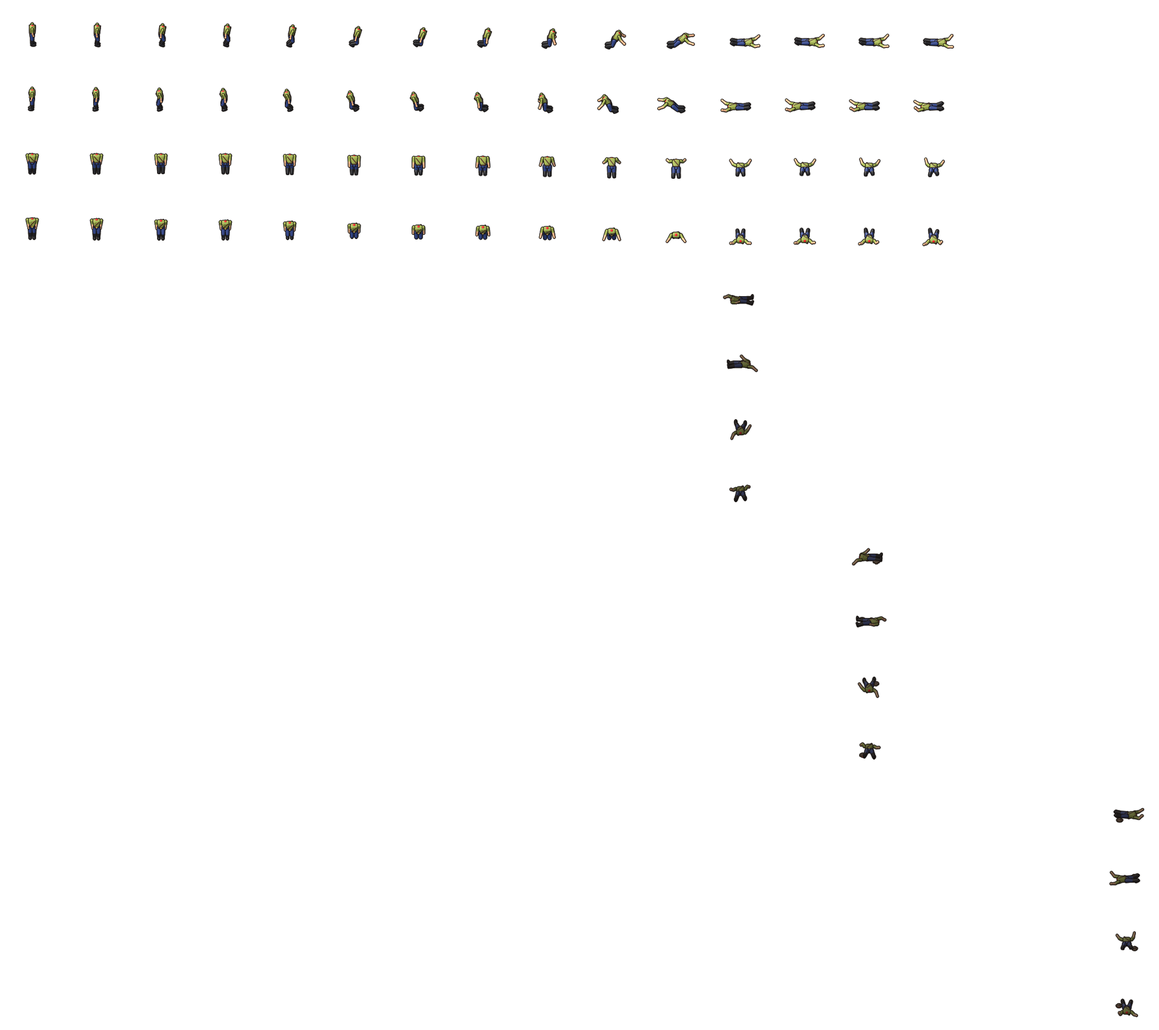
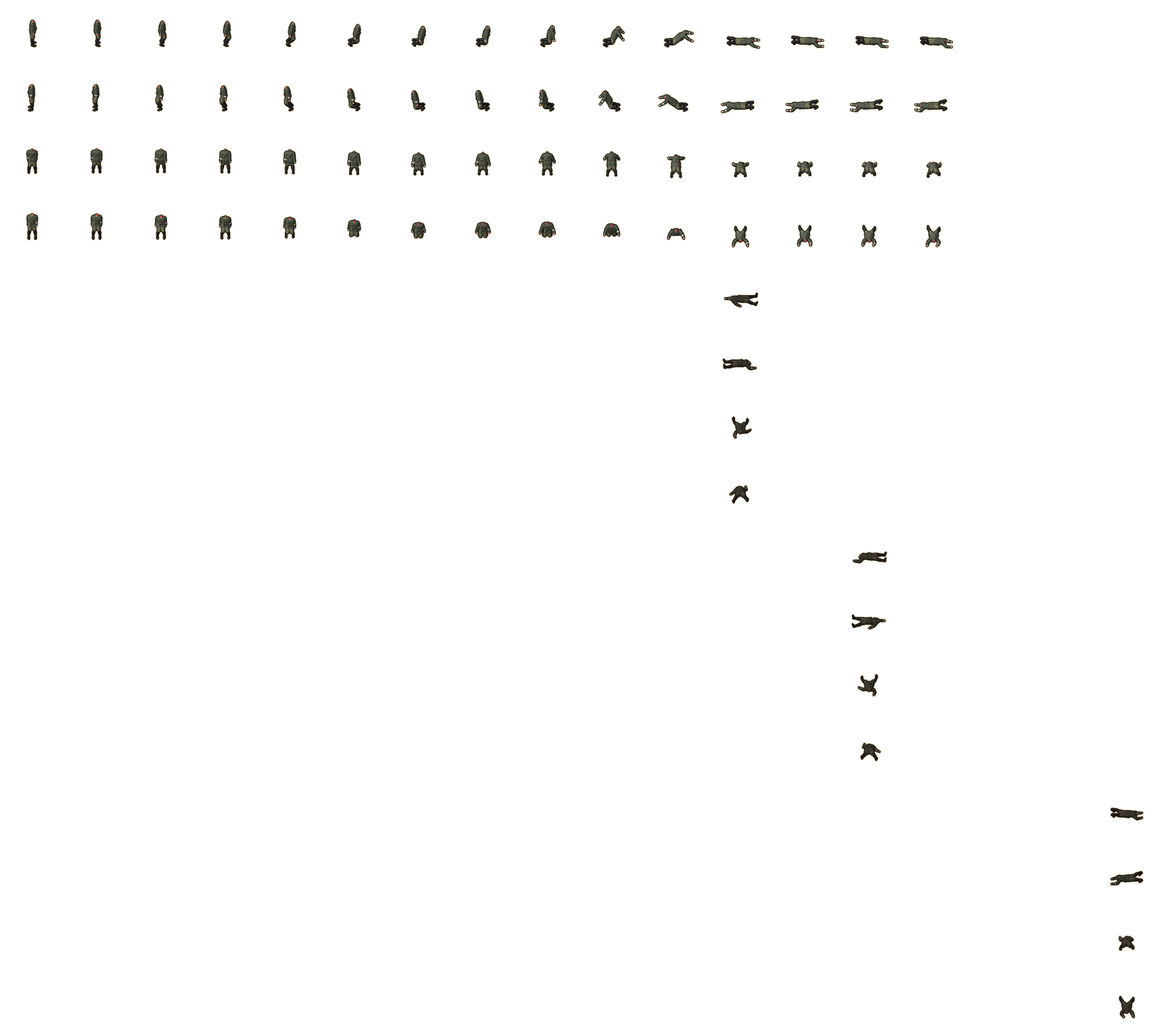
Версия 0.5.0: герои — реалистичные люди, новые кости, цветная бомба на панели
- Герои — человек MakeHuman, снятый в Blender, бег по записи движения CMU: Иван в ватнике и ушанке,
  Игорь в комбинезоне танкиста; ремни, подсумки, бинты, грязь; светлая обводка для заметности на полу.
  Все листы пересобраны (бег, четыре гибели, безголовые), heroMeta.js — mockups/realhero/build_real.py.
- Кости после змеи — без сапог, по размеру лежащего героя (bonesView.js).
- Бомба на счётчике панели — цветная, как у героя в игре.
- README: раздел «Авторы и лицензии» (одежда героев под CC BY 4.0, MakeHuman, CMU).
- Автотесты: 53.

diff --git a/frontend/js/bonesView.js b/frontend/js/bonesView.js
@@ -1,5 +1,6 @@
-// Что остаётся от героя, которого обглодала змея: скелет в сапогах или кучка костей с черепом.
-// Какое из двух — выбирает сервер. Шапки и прочего при костях нет: змея съедает всё.
+// Что остаётся от героя, которого обглодала змея: скелет или кучка костей с черепом — одни кости, без одежды и обуви.
+// Какое из двух — выбирает сервер. Размер — как у лежащего героя: скелет длиной с тело (около 60 точек).
+// Картинки героя сняты сверху наискосок, и лежащий вдоль экрана вверх-вниз выглядит короче — скелет тоже.
 // Нарисовано на холсте при запуске (createBonesTextures), готовых картинок нет.
 
 import { canvasTexture } from './canvasTexture.js';
@@ -7,13 +8,15 @@ import { canvasTexture } from './canvasTexture.js';
 const INK = '#120d0a';
 const BONE = ['#f6f1df', '#b4ab93'];
 const SIZE = 72;                      // сторона картинки: лежащий скелет длиннее клетки
-// Скелет лежит головой туда же, куда упал герой.
-const ANGLE = { right: 0, left: Math.PI, up: -Math.PI / 2, down: Math.PI / 2 };
+const SQUASH = 0.58;                  // во сколько раз короче то, что лежит вдоль экрана вверх-вниз
+const SQUASH_ACROSS = 0.8;            // так же для ширины тела: у героя её добавляет толщина тела
+// Куда головой лежит скелет — туда же, куда упал герой.
+const HEAD_TO = { right: [1, 0], left: [-1, 0], up: [0, -1], down: [0, 1] };
 
 // ------------------------------------------------------------ кисти
 
 // Заливает текущий контур переходом от светлого к тёмному и обводит.
-function ink(g, [light, dark], width = 1.1) {
+function ink(g, [light, dark], width = 0.8) {
   const paint = g.createLinearGradient(-6, -8, 6, 8);
   paint.addColorStop(0, light);
   paint.addColorStop(1, dark);
@@ -53,56 +56,40 @@ const fill = (g, color) => {
 };
 
 // Кость: палочка с утолщениями на концах.
-function bone(g, x0, y0, x1, y1, w = 2.2) {
-  for (const [width, color] of [[w + 2, INK], [w, BONE[0]]]) {
+function bone(g, x0, y0, x1, y1, w = 1.4) {
+  for (const [width, color] of [[w + 1.4, INK], [w, BONE[0]]]) {
     line(g, x0, y0, x1, y1, width, color);
     for (const [x, y] of [[x0, y0], [x1, y1]]) {
-      oval(g, x, y, (width + 1.1) / 2);
+      oval(g, x, y, (width + 0.7) / 2);
       fill(g, color);
     }
   }
 }
 
-// Череп сверху: макушка в сторону +x, лицом вверх.
-function skullTop(g, x) {
-  g.save();
-  g.translate(x, 0);
-  rect(g, -8.2, -3.4, 4.6, 6.8, 1.6);                           // челюсть
-  ink(g, BONE);
-  for (const y of [-1.6, 0, 1.6]) line(g, -8, y, -4.4, y, 0.7);
-  oval(g, 0, 0, 6.6, 5.9);
-  ink(g, BONE, 1.2);
-  for (const side of [-1, 1]) {
-    oval(g, -1.2, side * 2.5, 1.9, 1.7);
-    fill(g, INK);
-  }
-  poly(g, [[-3.4, 0], [-4.8, -1], [-4.8, 1]]);
-  fill(g, INK);
-  g.restore();
-}
-
 // ------------------------------------------------------------ кости (рисуются вокруг центра клетки)
 
-// Скелет лежит вдоль оси x, головой в сторону +x; середина тела в нуле. Остались одни сапоги.
-function skeleton(g) {
-  bone(g, -9.5, -3.2, -17.5, -4.3);                             // ноги
-  bone(g, -17.5, -4.3, -25, -3.6, 1.9);
-  bone(g, -9.5, 3.2, -17.5, 4.3);
-  bone(g, -17.5, 4.3, -25, 3.6, 1.9);
-  for (const side of [-1, 1]) {                                 // сапоги
-    rect(g, -29.5, side * 3.6 - 2.9, 7.5, 5.8, 2);
-    ink(g, ['#6a4a2c', '#2c1c0e']);
+// Скелет лежит на спине: u — вдоль тела (ступни −30, макушка +30), v — поперёк (правая рука −, левая +).
+// at переводит такую точку на экран: поворачивает головой к [dx, dy] и укорачивает то, что вдоль экрана вверх-вниз.
+function skeleton(g, [dx, dy]) {
+  const at = (u, v) => [dx * u - dy * v, dy * u * SQUASH + dx * v * SQUASH_ACROSS];
+  const b = (u0, v0, u1, v1, w) => bone(g, ...at(u0, v0), ...at(u1, v1), w);
+  const ovalAt = (u, v, ru, rv) => oval(g, ...at(u, v), Math.abs(dx) * ru + Math.abs(dy) * rv,
+    Math.abs(dy) * ru * SQUASH + Math.abs(dx) * rv * SQUASH_ACROSS);
+  for (const s of [-1, 1]) {                                    // ноги
+    b(-1.5, s * 3.8, -14.5, s * 3.4, 1.7);
+    b(-14.5, s * 3.4, -26.5, s * 3.2, 1.4);
+    b(-26.5, s * 3.2, -29.5, s * 3.8, 1.1);
   }
-  poly(g, [[-6, -5.6], [-10.6, -4.2], [-11.2, 0], [-10.6, 4.2], [-6, 5.6], [-7.6, 0]]);   // таз
-  ink(g, BONE);
-  bone(g, 10.5, 0, -7, 0, 2);                                   // хребет
-  for (let i = 0; i < 4; i++) {                                 // рёбра
-    const x = 8.4 - i * 2.5, far = 6.6 - i * 0.35;
-    for (const side of [-1, 1]) {
-      for (const [width, color] of [[3, INK], [1.5, BONE[0]]]) {
+  poly(g, [[3, -5.2], [-1, -5.8], [-3.6, -2.6], [-3.6, 2.6], [-1, 5.8], [3, 5.2], [1, 0]].map(([u, v]) => at(u, v)));
+  ink(g, BONE);                                                 // таз
+  b(1, 0, 19.5, 0, 1.3);                                        // хребет
+  for (let i = 0; i < 5; i++) {                                 // рёбра
+    const u = 16 - i * 2.2, far = 5.4 - i * 0.35;
+    for (const s of [-1, 1]) {
+      for (const [width, color] of [[2.2, INK], [1, BONE[0]]]) {
         g.beginPath();
-        g.moveTo(x, 0);
-        g.quadraticCurveTo(x + 1.3, side * (far - 1), x - 1.5, side * far);
+        g.moveTo(...at(u, 0));
+        g.quadraticCurveTo(...at(u + 1, s * (far - 1)), ...at(u - 1.6, s * far));
         g.lineCap = 'round';
         g.lineWidth = width;
         g.strokeStyle = color;
@@ -110,57 +97,64 @@ function skeleton(g) {
       }
     }
   }
-  for (const side of [-1, 1]) {                                 // руки вдоль тела
-    bone(g, 8.5, side * 6.8, 1.5, side * 10.2, 1.9);
-    bone(g, 1.5, side * 10.2, -5, side * 8.6, 1.7);
+  for (const s of [-1, 1]) {                                    // ключицы и руки вдоль тела
+    b(18, s * 1, 17.5, s * 6.6, 1);
+    b(17.5, s * 7.4, 6.5, s * 8.4, 1.3);
+    b(6.5, s * 8.4, -2.5, s * 8.2, 1.1);
+    b(-2.5, s * 8.2, -6.5, s * 7.6, 1);
   }
-  skullTop(g, 17.2);
-}
-
-// Кучка: череп смотрит на нас, под ним кости крест-накрест.
-function pile(g) {
-  bone(g, -15, 9, 15, -1, 2.6);
-  bone(g, -15, -1, 15, 9, 2.6);
-  for (const [x, a] of [[-9, 0.5], [9, -0.5]]) {
-    g.save();
-    g.translate(x, 12);
-    g.rotate(a);
-    bone(g, -5, 0, 5, 0, 1.7);
-    g.restore();
-  }
-  rect(g, -5.6, 3.5, 11.2, 7.5, 2.4);
+  ovalAt(21.6, 0, 1.6, 2.4);                                    // череп лицом вверх: челюсть, голова
   ink(g, BONE);
-  oval(g, 0, -1.5, 9.6, 8.8);
-  ink(g, BONE, 1.3);
-  for (const side of [-1, 1]) {
-    oval(g, side * 3.9, -1, 2.8, 3.1);
+  ovalAt(26, 0, 4.2, 3.2);
+  ink(g, BONE, 0.9);
+  for (const s of [-1, 1]) {
+    ovalAt(25, s * 1.4, 1.1, 1);                                // глазницы
     fill(g, INK);
   }
-  poly(g, [[0, 2.4], [-1.5, 5.2], [1.5, 5.2]]);
+  ovalAt(23.2, 0, 0.6, 0.5);                                    // нос
   fill(g, INK);
-  for (const x of [-2.7, 0, 2.7]) line(g, x, 7, x, 11, 0.9);
 }
 
-// Скелет — по картинке на каждую сторону, куда упал герой; кучка — одна.
-// Тень под костями уже в картинке (и не поворачивается вместе со скелетом).
-export function createBonesTextures(scene) {
-  const onShadow = (draw) => (g) => {
-    g.translate(SIZE / 2, SIZE / 2);
-    oval(g, 1, 3, 22, 10);
-    fill(g, 'rgba(0, 0, 0, 0.22)');
-    draw(g);
-  };
-  for (const [facing, angle] of Object.entries(ANGLE)) {
-    canvasTexture(scene, bonesKey('skeleton', facing), SIZE, SIZE, onShadow((g) => {
-      g.rotate(angle);
-      g.scale(0.94, 0.94);
-      skeleton(g);
-    }));
+// Кучка: череп смотрит на нас, под ним кости крест-накрест; череп — с голову героя.
+function pile(g) {
+  bone(g, -8, 4.5, 8, -1, 1.6);
+  bone(g, -8, -1, 8, 4.5, 1.6);
+  for (const [x, a] of [[-5, 0.5], [5, -0.5]]) {
+    g.save();
+    g.translate(x, 6.5);
+    g.rotate(a);
+    bone(g, -3, 0, 3, 0, 1.1);
+    g.restore();
   }
-  canvasTexture(scene, bonesKey('pile'), SIZE, SIZE, onShadow((g) => {
-    g.translate(0, 2);
+  rect(g, -3, 1.6, 6, 4, 1.3);                                  // челюсть
+  ink(g, BONE);
+  for (const x of [-1.4, 0, 1.4]) line(g, x, 3.6, x, 5.6, 0.5);
+  oval(g, 0, -1, 5.2, 4.8);
+  ink(g, BONE, 0.9);
+  for (const side of [-1, 1]) {
+    oval(g, side * 2.1, -0.6, 1.5, 1.7);
+    fill(g, INK);
+  }
+  poly(g, [[0, 1.2], [-0.8, 2.7], [0.8, 2.7]]);
+  fill(g, INK);
+}
+
+// Скелет — по картинке на каждую сторону, куда упал герой; кучка — одна. Тень под костями уже в картинке.
+export function createBonesTextures(scene) {
+  for (const [facing, [dx, dy]] of Object.entries(HEAD_TO)) {
+    canvasTexture(scene, bonesKey('skeleton', facing), SIZE, SIZE, (g) => {
+      g.translate(SIZE / 2, SIZE / 2);
+      oval(g, 0, 1.5, dx ? 31 : 10, dx ? 10 * SQUASH_ACROSS : 31 * SQUASH);
+      fill(g, 'rgba(0, 0, 0, 0.22)');
+      skeleton(g, [dx, dy]);
+    });
+  }
+  canvasTexture(scene, bonesKey('pile'), SIZE, SIZE, (g) => {
+    g.translate(SIZE / 2, SIZE / 2);
+    oval(g, 0.5, 4.5, 11, 4.5);
+    fill(g, 'rgba(0, 0, 0, 0.22)');
     pile(g);
-  }));
+  });
 }
 
 // Какая картинка нужна: kind — skeleton или pile (как прислал сервер), facing — куда смотрел герой,

diff --git a/frontend/js/heroMeta.js b/frontend/js/heroMeta.js
@@ -1,4 +1,4 @@
-// Размеры и таблицы картинок героя. Файл пишет tools/build_hero.py — руками не править.
+// Размеры и таблицы картинок героя. Файл пишет mockups/realhero/build_real.py — руками не править.
 // Гибель, кадр за кадром: [сдвиг вдоль взгляда, насколько лёг (0..1), прозрачность тени, размер тени].
 // rest — на сколько точек [x, y] сдвинуть лежащее тело, чтобы оно было посередине клетки; по направлениям dirs.
 
@@ -9,7 +9,7 @@ export const HERO = {
     "frame": 73,
     "origin": [0.5, 0.8274],
     "frames": 20,
-    "cycle": 71.76
+    "cycle": 89.41
   },
   "death": {
     "frame": 125,
@@ -22,10 +22,10 @@ export const HERO = {
         "row": 0,
         "head": 1,
         "rest": [
-          [-9.5, 6.0],
-          [9.5, 5.5],
-          [-1.5, 11.5],
-          [1.5, 0.5]
+          [-5.5, 4.0],
+          [5.5, 6.5],
+          [-1.0, 8.5],
+          [1.0, 3.0]
         ],
         "landed": 0.917,
         "frames": [
@@ -50,10 +50,10 @@ export const HERO = {
         "row": 4,
         "head": -1,
         "rest": [
-          [3.5, 4.0],
-          [-3.5, 6.0],
-          [-1.0, 2.0],
-          [1.0, 6.0]
+          [-1.5, 4.0],
+          [1.5, 4.0],
+          [-2.5, 6.0],
+          [2.5, 3.5]
         ],
         "landed": 0.583,
         "frames": [
@@ -75,10 +75,10 @@ export const HERO = {
         "row": 8,
         "head": -1,
         "rest": [
-          [3.5, 5.5],
-          [-3.5, 4.5],
-          [1.5, 2.0],
-          [-1.5, 5.0]
+          [-1.0, 4.0],
+          [1.0, 3.5],
+          [2.5, 6.0],
+          [-2.5, 3.0]
         ],
         "landed": 0.75,
         "frames": [
@@ -102,10 +102,10 @@ export const HERO = {
         "row": 12,
         "head": 1,
         "rest": [
-          [-3.5, 3.5],
-          [4.0, 6.5],
-          [-0.5, 9.0],
-          [0.5, 4.0]
+          [-0.5, 6.0],
+          [0.5, 6.5],
+          [0.5, 7.0],
+          [-0.5, 6.0]
         ],
         "landed": 1.0,
         "frames": [

diff --git a/frontend/js/bunker.js b/frontend/js/bunker.js
@@ -113,16 +113,12 @@ function retouched(width, height, draw, edit) {
   return canvas;
 }
 
-// Бомба на счётчике — та же связка динамита, что ставит герой n (первый кадр bomb<n>.png), только серая.
-// Середина картинки — в (x, y); размер как на поле.
+// Бомба на счётчике — та же связка динамита, что ставит герой n (первый кадр bomb<n>.png), в его цвете:
+// красная у Ивана, зелёная у Игоря. Середина картинки — в (x, y); размер как на поле.
 function bombIcon(g, scene, n, x, y) {
   const sprite = scene.textures.get(`bomb${n}`).getSourceImage();
-  const gray = retouched(CELL, CELL, (c) => c.drawImage(sprite, 0, 0, CELL, CELL, 0, 0, CELL, CELL), (px, i) => {
-    // по самой яркой составляющей: красная связка Ивана и зелёная Игоря выходят одного серого тона
-    px[i] = px[i + 1] = px[i + 2] = Math.max(px[i], px[i + 1], px[i + 2]) * 0.82;
-  });
   g.imageSmoothingEnabled = false;                            // точка в точку, как на поле
-  g.drawImage(gray, x - CELL / 2, y - CELL / 2, CELL, CELL);
+  g.drawImage(sprite, 0, 0, CELL, CELL, x - CELL / 2, y - CELL / 2, CELL, CELL);
   g.imageSmoothingEnabled = true;
 }
 

diff --git a/README.md b/README.md
@@ -140,7 +140,7 @@ BOMBERSYS/
 │   ├── sounds.html        ← проверка звуков: послушать музыку, эффекты и голоса по отдельности
 │   ├── sounds/voice/      ← голоса (Kenney.nl, свободная лицензия CC0)
 │   ├── vendor/phaser.min.js   ← движок 2D-игр Phaser 3.80 (лежит в проекте)
-│   ├── assets/            ← PNG-картинки (из legacy/*.bmp; герои — из кадров Blender; photo1/2.png — фото героев на панели)
+│   ├── assets/            ← PNG-картинки (из legacy/*.bmp; герои — человек MakeHuman, снятый в Blender; photo1/2.png — фото героев на панели)
 │   └── js/
 │       ├── main.js        ← запуск Phaser
 │       ├── net.js         ← связь с сервером
@@ -150,13 +150,13 @@ BOMBERSYS/
 │       ├── backdrop.js    ← общий фон меню и настроек
 │       ├── layout.js      ← размеры и координаты экрана
 │       ├── heroView.js    ← герой на экране: бег, гибель, тень, лужа крови; съеденная голова, воскрешение
-│       ├── heroMeta.js    ← размеры кадров героя и таблицы гибели (пишет tools/build_hero.py)
+│       ├── heroMeta.js    ← размеры кадров героя и таблицы гибели (пишет mockups/realhero/build_real.py)
 │       ├── blastView.js   ← бомба и взрыв на экране: огонь в коридорах, искры, дым, копоть, обломки стен
 │       ├── snakeView.js   ← змея на экране: гадюка лентой вдоль своего пути, разворот петлёй
 │       ├── enemyView.js   ← твари на экране: «зубастики» четырёх ступеней, шагают и лязгают зубами
 │       ├── banners.js     ← надписи поверх поля: доски «ПРИГОТОВЬТЕСЬ» и «ПАУЗА»
 │       ├── itemView.js    ← бонусы и дверь: рисуются на холсте, покачиваются и искрят
-│       ├── bonesView.js   ← кости после змеи: скелет в сапогах или кучка костей
+│       ├── bonesView.js   ← кости после змеи: скелет или кучка костей, по размеру героя
 │       ├── bunker.js      ← оформление «блиндаж»: дощатая стена, листки, правая панель с фотографиями героев
 │       ├── canvasTexture.js ← картинки, которые игра рисует сама при запуске (вместо готовых файлов)
 │       ├── audio/         ← звук: синтезатор, музыка (songs.js), эффекты (sfx.js), озвучка событий
@@ -164,7 +164,7 @@ BOMBERSYS/
 │
 ├── tools/
 │   ├── convert_assets.py  ← BMP → PNG (прежних врагов-призраков и надписи игра больше не использует)
-│   ├── build_hero.py      ← кадры Blender → листы картинок героев (hero*.png) и heroMeta.js
+│   ├── build_hero.py      ← кадры Blender → листы героев-фигурок (до 0.5.0; его функции берёт и build_real.py)
 │   └── make_icon.py       ← рисует иконку игры (бомба с фитилём)
 │
 └── legacy/                ← СТАРЫЙ ПРОЕКТ 2005 года, как был (архив)
@@ -180,7 +180,7 @@ BOMBERSYS/
 | Прогнать тесты | `uv run pytest` |
 | Посмотреть таблицу сложности | `uv run python -m app.game.difficulty` |
 | Пересобрать картинки из BMP | `python ../tools/convert_assets.py` |
-| Пересобрать картинки героев из кадров Blender (около минуты) | из корня проекта: `C:\Blender\blender.exe -b --factory-startup --python-exit-code 1 -P tools/build_hero.py` |
+| Пересобрать картинки героев из кадров Blender (около минуты; сценарии и кадры — в `mockups/realhero`, в репозиторий не входят) | из корня проекта: `C:\Blender\blender.exe -b --factory-startup --python-exit-code 1 -P mockups/realhero/build_real.py -- --install` |
 | Послушать и проверить звуки | запустить игру и открыть в браузере `/sounds.html` |
 | Поменять номер версии | `version` в `backend/pyproject.toml` (меню показывает его внизу) |
 | Собрать BOMBERSYS.exe | `packaging\build_exe.bat` → `backend\dist\BOMBERSYS.exe` |
@@ -199,6 +199,23 @@ BOMBERSYS/
 Со 2-го уровня каждый третий враг — «сильный»: на ступень выше цветом, быстрее, зорче и умнее.
 С 4-го уровня враги начинают обходить бомбы и огонь. С каждым уровнем они дольше
 помнят, где видели игрока. Цвет врагов меняется каждые 3 уровня: зелёные → оранжевые → красные → фиолетовые.
+
+## Авторы и лицензии
+
+- Герои — человек [MakeHuman](http://www.makehuman.org/) (дополнение MPFB для Blender): тело, кожа, волосы,
+  брови, глаза — CC0.
+- Одежда героев — из библиотеки сообщества MakeHuman; перекрашена и доработана (добавлены ремни, портупея,
+  подсумки, бинты, стёжка, мех, грязь):
+  - куртка и брюки спасателя (`rescueteam jacket / pants male`) — Elvaerwyn и punkduck, CC BY 4.0;
+  - комбинезон (`male coveralls`) — Elvaerwyn, CC BY 4.0;
+  - сапоги (`riding boots`) — punkduck, CC BY 4.0;
+  - шапка (`sherpa hat`, у нас — ушанка) — Mindfront, CC BY 4.0;
+  - борода и усы «викинг» — Rehman Polanski, CC0.
+
+  Лицензия CC BY 4.0: <https://creativecommons.org/licenses/by/4.0/deed.ru>
+- Бег героя — запись движения из базы CMU Graphics Lab Motion Capture Database (<http://mocap.cs.cmu.edu>);
+  база создана при поддержке NSF EIA-0196217.
+- Голоса — Kenney.nl, CC0.
 
 ## Про старую версию
 
